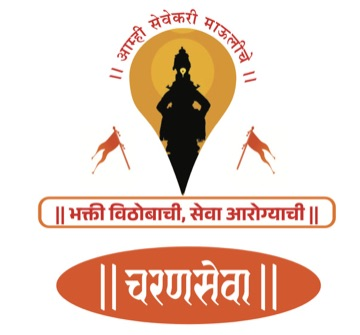
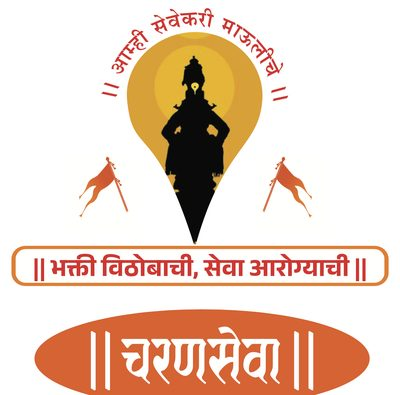
Brand header: emblem-only crop, white margins trimmed (400px/24KB); tagline stays as HTML text (v127)

diff --git a/sw.js b/sw.js
@@ -1,4 +1,4 @@
-const CACHE_VERSION = 'wari2026-v126';
+const CACHE_VERSION = 'wari2026-v127';
 const APP_SHELL = [
   './',
   './index.html',